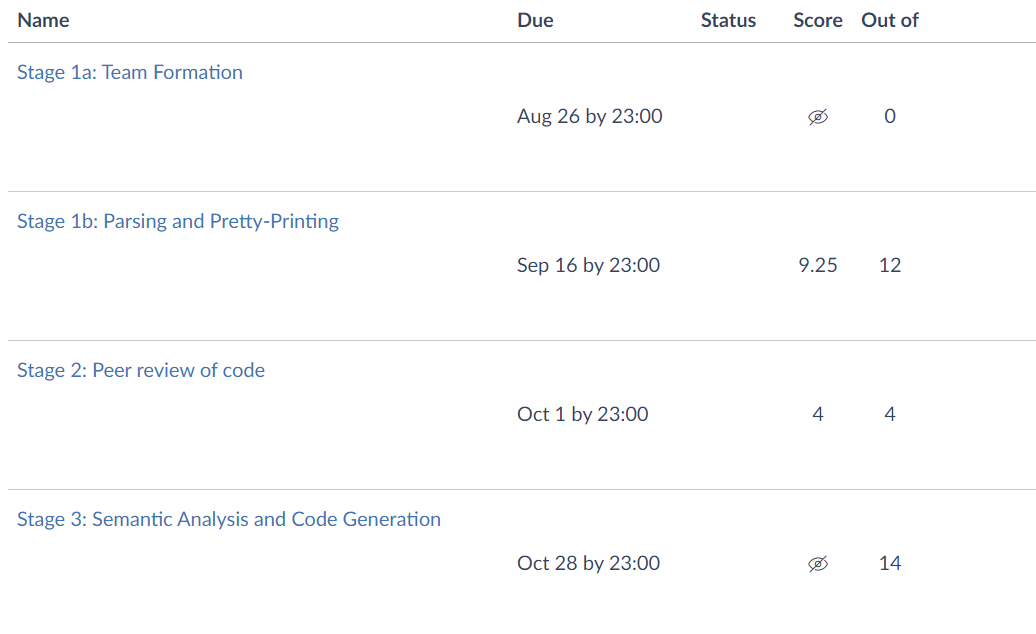
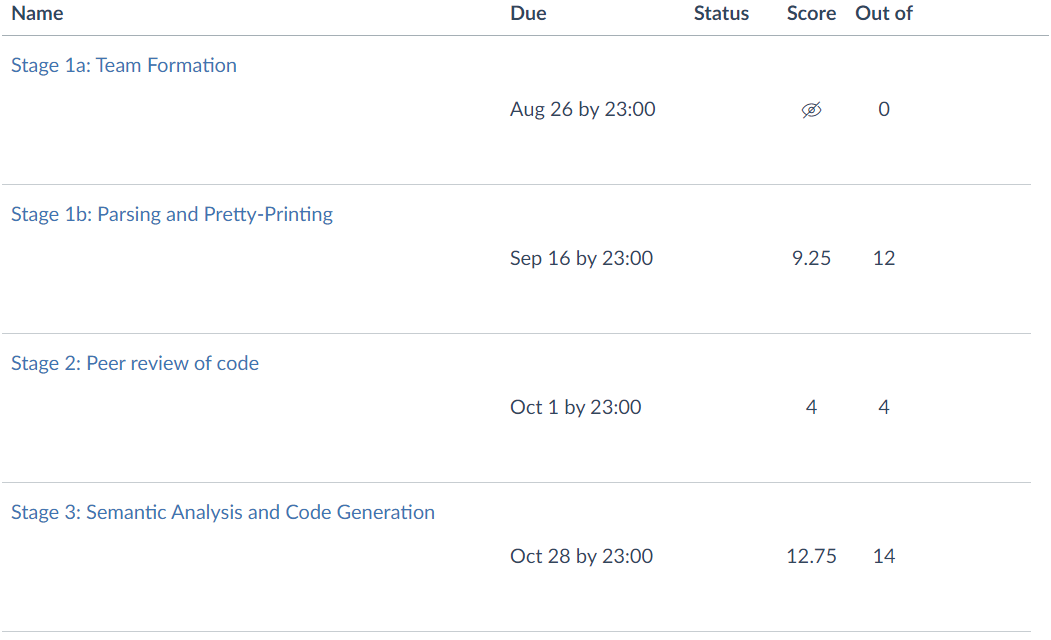
add results

diff --git a/README.md b/README.md
@@ -30,6 +30,7 @@ Thanks goes to these wonderful people ([emoji key](https://allcontributors.org/d
 This project follows the [all-contributors](https://github.com/all-contributors/all-contributors) specification. Contributions of any kind welcome!
 
 ## marks
+- 26 out of 30 (87%)
 - <img width="80%" src="./docs/marks.jpg"/>
 
 ## repository structure
@@ -60,6 +61,7 @@ This project follows the [all-contributors](https://github.com/all-contributors/
 - [result](./docs/stage&#32;1&#32;result/all_files.pdf)
 
 ### stage 2
+- <img src="./docs/2.jpg" width="60%" />
 - [specification](./docs/asg2.pdf)
 
 ### stage 3a
@@ -68,6 +70,7 @@ This project follows the [all-contributors](https://github.com/all-contributors/
 - ``` verify COMP90045 3a | less ```
 
 ### stage 3b
+- <img src="./docs/3.jpg" width="60%" />
 - [specification](./docs/asg3.pdf)
 #### how to submit
 - ``` submit COMP90045 3b Makefile Roo.hs RooAST.hs PrettyRoo.hs RooParser.hs RooAnalyser.hs SymbolTable.hs Codegen.hs OzCode.hs ```
